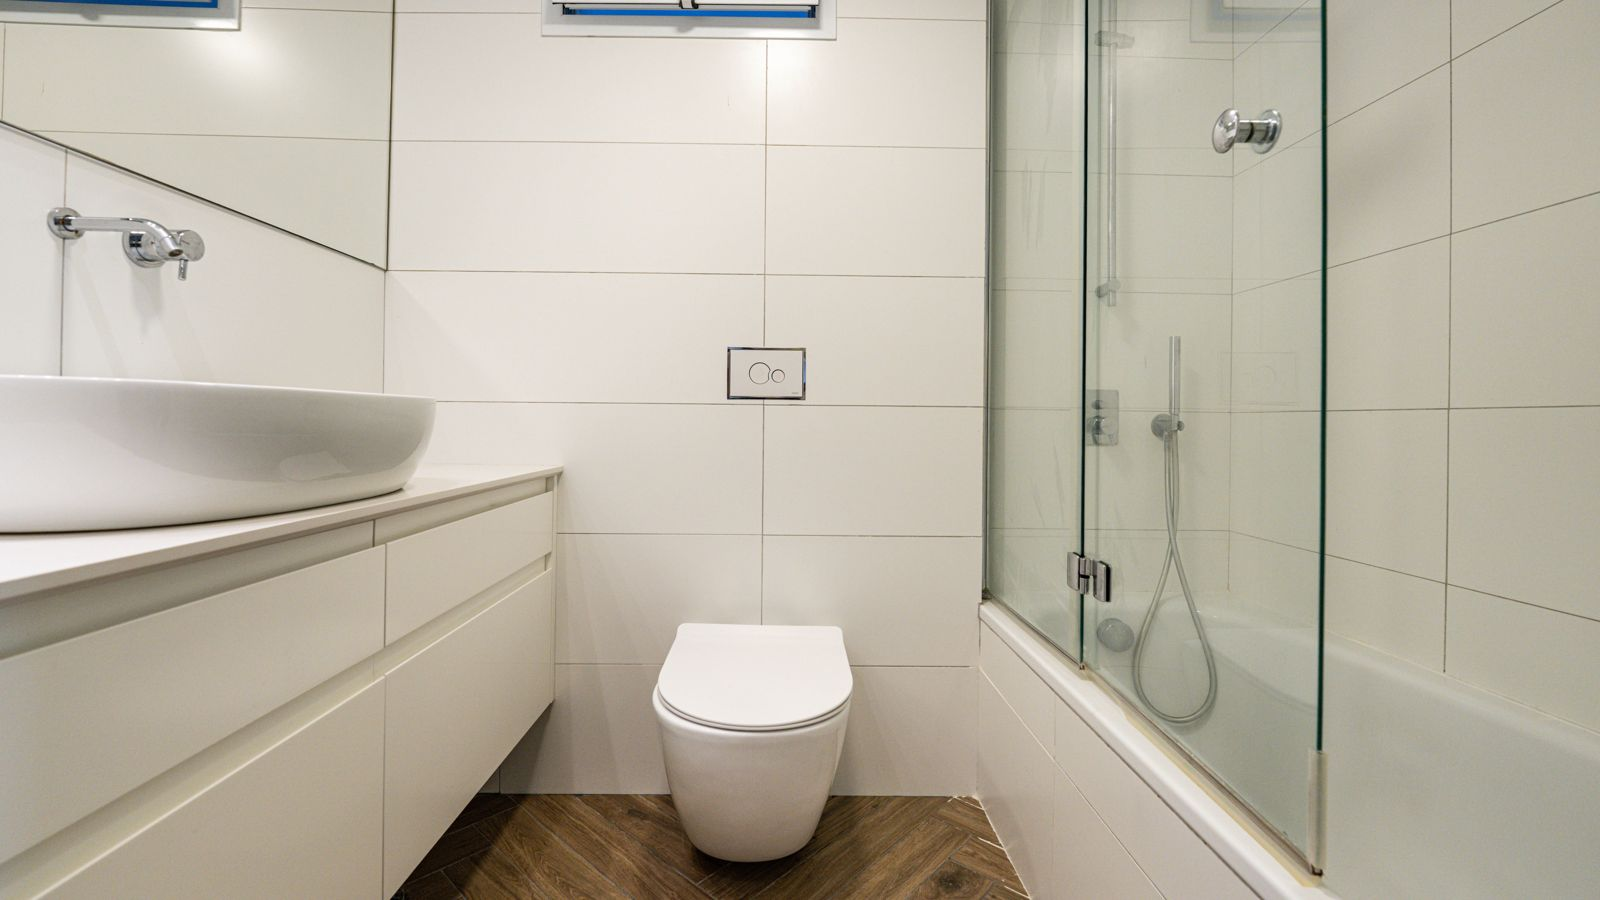
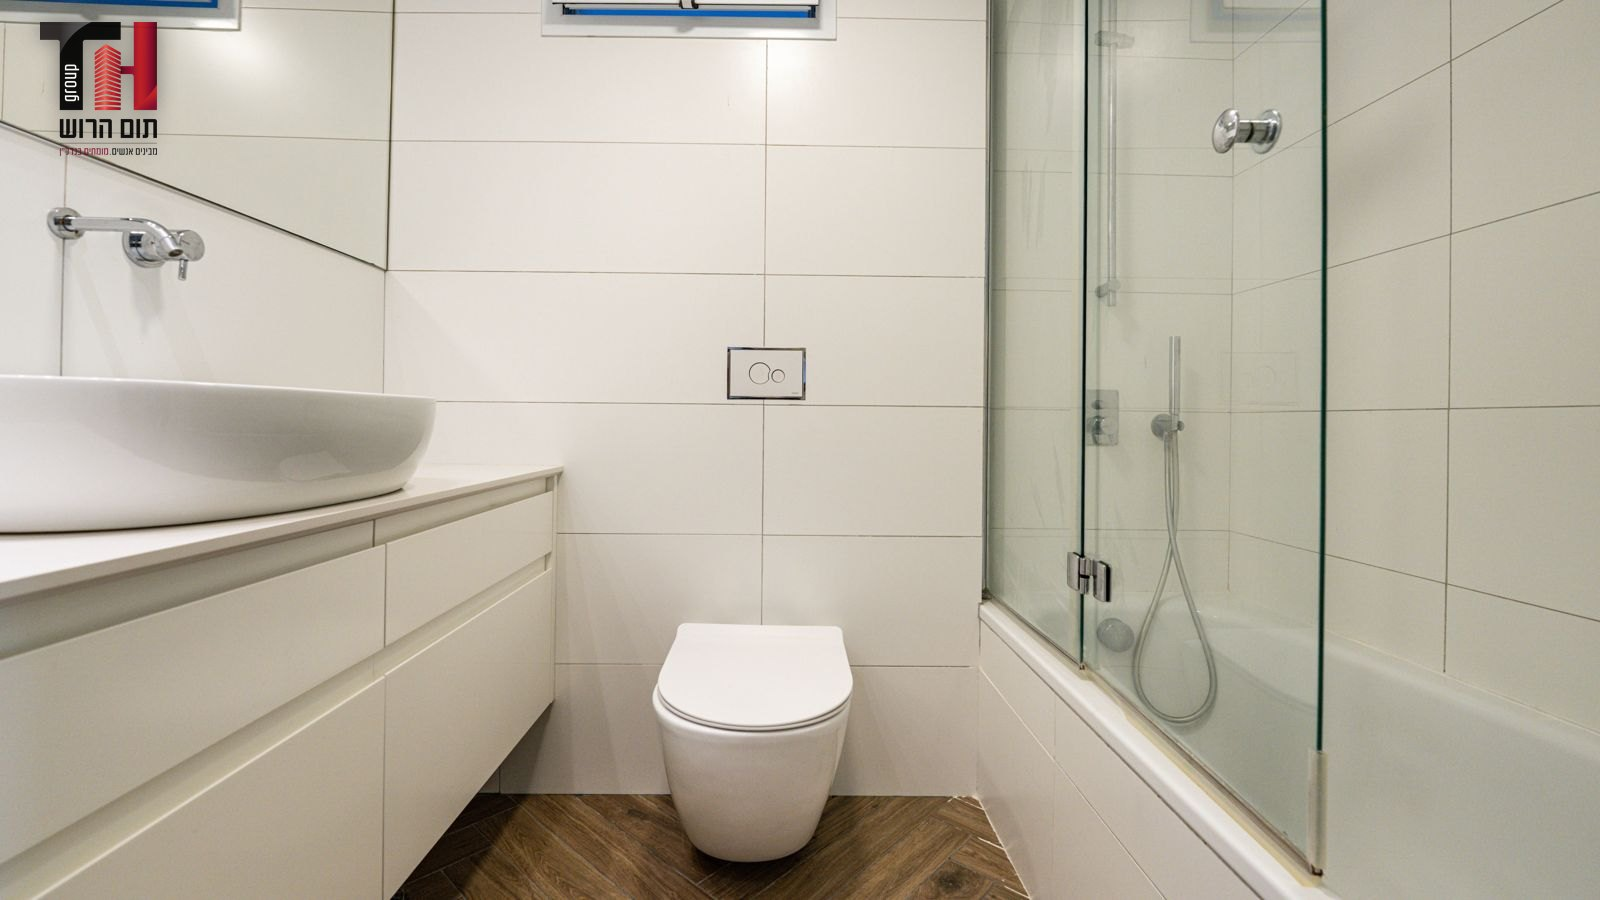
יד שנייה: לוגו הקבוצה שמאל למעלה על 27 תמונות דף הנכס (גל 11/11), ודף מפתח הפרויקט /yad2/

Changed region(s): [[0.0, 0.0, 0.125, 0.1867]]

diff --git a/yad2/index.html b/yad2/index.html
@@ -1,0 +1,76 @@
+<!doctype html>
+<html lang="he" dir="rtl">
+<head>
+<meta charset="utf-8">
+<meta name="viewport" content="width=device-width,initial-scale=1">
+<meta name="robots" content="noindex,nofollow">
+<title>נכסי יד שנייה · מפתח הפרויקט</title>
+<link rel="preconnect" href="https://fonts.googleapis.com">
+<link rel="stylesheet" href="https://fonts.googleapis.com/css2?family=Heebo:wght@400;500;600;700;800&display=swap">
+<style>
+:root{--bg:#f4f4f5;--card:#fff;--ink:#17181a;--mut:#6b6f76;--line:#e6e7ea;--red:#b3121b;--red2:#8e0e15;--soft:#fbeaea}
+*{box-sizing:border-box}
+body{margin:0;background:var(--bg);color:var(--ink);font-family:Heebo,Arial,sans-serif;line-height:1.5}
+.wrap{max-width:760px;margin:0 auto;padding:16px 16px 48px}
+header{display:flex;align-items:center;gap:12px;padding:8px 0 18px}
+header img{width:46px;height:46px;border-radius:10px}
+header .t{font-weight:800;font-size:20px;line-height:1.2}
+header .s{color:var(--mut);font-size:13px}
+.upd{font-size:12px;color:var(--mut);margin:0 0 14px}
+h2{font-size:15px;font-weight:800;margin:22px 0 8px;display:flex;align-items:center;gap:8px}
+h2 span{display:inline-block;width:6px;height:18px;background:var(--red);border-radius:3px}
+.card{background:var(--card);border:1px solid var(--line);border-radius:14px;overflow:hidden}
+a.row{display:grid;grid-template-columns:28px 1fr auto;gap:10px;align-items:center;padding:12px 14px;border-bottom:1px solid var(--line);text-decoration:none;color:inherit}
+a.row:last-child{border-bottom:0}
+a.row:hover{background:#fafafa}
+.n{width:28px;height:28px;border-radius:50%;background:var(--soft);color:var(--red);font-weight:800;font-size:13px;display:flex;align-items:center;justify-content:center}
+.ttl{font-weight:700;font-size:15px}
+.d{color:var(--mut);font-size:13px;margin-top:1px}
+.arr{color:var(--red);font-weight:800;font-size:18px}
+.tag{display:inline-block;font-size:11px;font-weight:700;color:var(--red);background:var(--soft);border-radius:999px;padding:1px 8px;margin-inline-start:6px;vertical-align:middle}
+.note{background:var(--soft);border-radius:12px;padding:10px 14px;font-size:13px;color:var(--red2);margin-top:8px}
+footer{margin-top:28px;font-size:12px;color:var(--mut);text-align:center}
+footer a{color:var(--mut)}
+</style>
+</head>
+<body>
+<div class="wrap">
+<header>
+  <img src="../dira/img/logo.png" alt="">
+  <div><div class="t">נכסי יד שנייה · מפתח הפרויקט</div><div class="s">קבוצת תום הרוש · כל הקישורים במקום אחד</div></div>
+</header>
+<p class="upd">עודכן 11/11/2026. דפי הארטיפקט נפתחים רק למי שגל שיתף איתו.</p>
+
+<h2><span></span>המודעות, הקופי והתמונות</h2>
+<div class="card">
+  <a class="row" href="https://claude.ai/artifact/Jmtu6Yqci3U7L4kiGn2Yz9"><div class="n">1</div><div><div class="ttl">דף האישור של רז <em class="tag">לאישור</em></div><div class="d">כל מודעה של קריניצי, בן צבי והצנחנים (גרפיקה, סטורי וקרוסלה) עם הקופי המלא, וכפתורי אישור לכל אחת.</div></div><div class="arr">‹</div></a>
+  <a class="row" href="https://claude.ai/artifact/5SNveXNxGxtTukj12eetm1"><div class="n">2</div><div><div class="ttl">עורך הקופי</div><div class="d">כל טקסט בפרויקט, על התמונה עצמה, ניתן לעריכה: מודעות, שאלון, דף הנכס, הודעות וואטסאפ.</div></div><div class="arr">‹</div></a>
+  <a class="row" href="https://claude.ai/artifact/NP9BNbDb7CiJuatrUpw1Zq"><div class="n">3</div><div><div class="ttl">תמונות הצנחנים</div><div class="d">17 הצילומים מהדרופבוקס של תום, עם הבחירה של גל לגרפיקה ולקרוסלה.</div></div><div class="arr">‹</div></a>
+  <a class="row" href="https://claude.ai/artifact/DqSXtBstL3wHaGZftqx8GG"><div class="n">4</div><div><div class="ttl">חותמת לוגו לדף הנכס <em class="tag">להחלטה</em></div><div class="d">דוגמה ללוגו הקבוצה על תמונות דף הנכס, לפני שמטמיעים על כל 27 התמונות.</div></div><div class="arr">‹</div></a>
+  <a class="row" href="https://www.figma.com/design/O7w4T5VhJ3vg75E0kjk5s2"><div class="n">5</div><div><div class="ttl">קובץ הפיגמה</div><div class="d">העיצובים עצמם. גל עורך כאן ואני מייצא לדפים.</div></div><div class="arr">‹</div></a>
+</div>
+
+<h2><span></span>המשפך החי</h2>
+<div class="card">
+  <a class="row" href="https://land.tom-harush.co.il/dira/"><div class="n">6</div><div><div class="ttl">השאלון</div><div class="d">לשם מגיעים מהמודעה: 4 שאלות קצרות ופרטים. מכאן יוצא הוואטסאפ עם דף הנכס.</div></div><div class="arr">‹</div></a>
+  <a class="row" href="https://land.tom-harush.co.il/dira/m/?c=5UQ3wP9JPcTG"><div class="n">7</div><div><div class="ttl">דף הנכס שמגיע בוואטסאפ · קריניצי</div><div class="d">הדף האישי של ליד בדיקה: תמונות, המחיר, הסיפור של הנכס וכפתור לתיאום סיור עם רז.</div></div><div class="arr">‹</div></a>
+  <a class="row" href="https://land.tom-harush.co.il/dira/m/?c=M7nth4mUx8Er"><div class="n">8</div><div><div class="ttl">דף הנכס · דולב (ליד בדיקה ישן)</div><div class="d">אותו דף לנכס אחר, להשוואה של המבנה.</div></div><div class="arr">‹</div></a>
+  <a class="row" href="https://dash.tom-harush.co.il/yad2/"><div class="n">9</div><div><div class="ttl">הדשבורד · לשונית נכסי יד שנייה</div><div class="d">כל ליד, הנכס שנשלח לו, בקשות סיור, והסטטוס אצל רז. דורש כניסה.</div></div><div class="arr">‹</div></a>
+</div>
+<div class="note">דפי בן צבי והצנחנים ייפתחו רק עם ליד ניסוי חדש במצב בדיקה. ההודעות בוואטסאפ יוצאות מסמוב, 4 תבניות מאושרות, ותבנית "עמוד נכס" ממתינה לאישור מטא.</div>
+
+<h2><span></span>אסטרטגיה, אפיון ואוטומציות</h2>
+<div class="card">
+  <a class="row" href="https://claude.ai/artifact/ESfQbbt8DK32sMiRsYaJpc"><div class="n">10</div><div><div class="ttl">מרכז נכסי יד שנייה</div><div class="d">המרכז של גל: מצב הפרויקט, ההחלטות, מה פתוח ומה חי.</div></div><div class="arr">‹</div></a>
+  <a class="row" href="https://claude.ai/artifact/83HXXk32Z4192qMWH9Z1GB"><div class="n">11</div><div><div class="ttl">אוטומציות ורשימת השיחה</div><div class="d">כל הודעה אוטומטית בוואטסאפ ובמייל, מתי יוצאת ומה הנוסח, ורשימת הנקודות לשיחה עם רז.</div></div><div class="arr">‹</div></a>
+  <a class="row" href="https://claude.ai/artifact/VBnRcQW5zTF39dYsbQpWT6"><div class="n">12</div><div><div class="ttl">הנכסים הראשונים בפיד</div><div class="d">דף השיחה עם תום: איזה נכסים עולים ראשונים ולמה.</div></div><div class="arr">‹</div></a>
+  <a class="row" href="https://claude.ai/artifact/VZztLRTYQHL1x8k7UkfDRH"><div class="n">13</div><div><div class="ttl">מסע הקונה, הדמיה</div><div class="d">איך הקונה חווה את המסלול מהמודעה ועד הסיור, צעד אחרי צעד.</div></div><div class="arr">‹</div></a>
+  <a class="row" href="https://claude.ai/artifact/XALVj937iX6JTzPJQBVLza"><div class="n">14</div><div><div class="ttl">התשובות של תום</div><div class="d">25 השאלות על הנכסים והתשובות שלו (מחיר, דמי תיווך, בלעדיות).</div></div><div class="arr">‹</div></a>
+  <a class="row" href="https://claude.ai/artifact/UEPqRVvS86W6aMo8EQxkKA"><div class="n">15</div><div><div class="ttl">אסטרטגיית לידים</div><div class="d">מה למדנו מהקמפיינים הקודמים (BMBY ומטא), ואיך בנוי המשפך החדש.</div></div><div class="arr">‹</div></a>
+  <a class="row" href="https://claude.ai/artifact/PApfJ1kgW1tGm2GhaphVi2"><div class="n">16</div><div><div class="ttl">אפיון הקמפיין</div><div class="d">המסמך הראשון: היעד, הקהל, הנכסים, התקציב והמדידה.</div></div><div class="arr">‹</div></a>
+</div>
+
+<footer>נבנה על ידי <a href="https://dg-gal.online">דיוק דיגיטלי</a> · דף פנימי לצוות</footer>
+</div>
+</body>
+</html>
